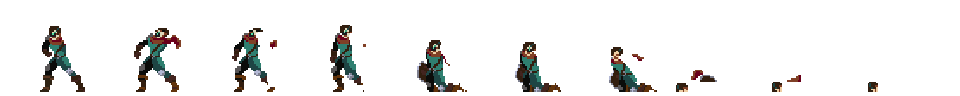
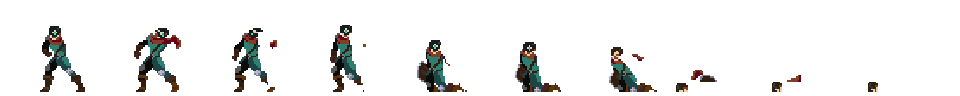
Polish hero equipment and shield feedback

diff --git a/game.py b/game.py
@@ -1499,29 +1499,45 @@ class Game:
         metadata = self.sprites.hero_equipment_pose(pose, elapsed)
         if metadata:
             right_hand = metadata["weapon_grip"]
-            right_elbow = metadata["weapon_elbow"]
             shield_point = metadata["shield_center"]
             angle = metadata["weapon_angle"]
         else:
-            right_hand, right_elbow, shield_point = (70, 51), (57, 45), (34, 53)
+            right_hand, shield_point = (70, 51), (34, 53)
             angle = -38
 
         right_grip = (hero_rect.x + right_hand[0] * unit, hero_rect.y + right_hand[1] * unit)
-        right_elbow = (hero_rect.x + right_elbow[0] * unit, hero_rect.y + right_elbow[1] * unit)
-        shield_center = (hero_rect.x + shield_point[0] * unit, hero_rect.y + shield_point[1] * unit)
+        shoulder = pygame.Vector2(hero_rect.x + 58 * unit, hero_rect.y + 48 * unit)
+        grip_vector = pygame.Vector2(right_grip) - shoulder
+        if grip_vector.length_squared() > 1:
+            bend = pygame.Vector2(-grip_vector.y, grip_vector.x).normalize() * 2.4 * unit
+        else:
+            bend = pygame.Vector2()
+        right_elbow = shoulder.lerp(pygame.Vector2(right_grip), .52) + bend
+
+        # The source shield layer crosses the body in several sword poses.
+        # Keep the carried shield on the off-hand side and slightly below the
+        # mask, while still retaining its frame-by-frame vertical movement.
+        shield_x, shield_y = shield_point
+        shield_x = min(shield_x, 49 if pose == "guard" else 47)
+        shield_y = max(shield_y, 52) + (4.0 if pose == "guard" else 4.5)
+        impact = min(1.0, self.hero_block_flash / .34) if self.hero_block_flash > 0 else 0.0
+        shield_center = (
+            hero_rect.x + (shield_x - 2.8 * impact) * unit,
+            hero_rect.y + (shield_y + 1.2 * impact) * unit,
+        )
 
         # The licensed source keeps equipment on separate layers. Rebuild the
         # forward forearm here so it follows the original sword arc while the
         # exact inventory icon remains visible instead of a baked-in weapon.
         if weapon:
-            pygame.draw.line(
-                self.screen_surface, (29, 27, 29), right_elbow, right_grip,
-                max(3, round(4.2 * unit)),
+            arm_segments = (
+                (shoulder, right_elbow, (32, 76, 71)),
+                (right_elbow, pygame.Vector2(right_grip), (91, 62, 43)),
             )
-            pygame.draw.line(
-                self.screen_surface, (105, 70, 43), right_elbow, right_grip,
-                max(2, round(2.5 * unit)),
-            )
+            for start, end, inner_color in arm_segments:
+                pygame.draw.line(self.screen_surface, (24, 25, 27), start, end, max(3, round(4.0 * unit)))
+                pygame.draw.line(self.screen_surface, inner_color, start, end, max(2, round(2.15 * unit)))
+            pygame.draw.circle(self.screen_surface, (43, 34, 31), (round(right_elbow.x), round(right_elbow.y)), max(2, round(2.2 * unit)))
 
         def blit_at_grip(image, grip, rotation):
             pivot = pygame.Vector2(image.get_width() * .10, image.get_height() * .89)
@@ -1531,12 +1547,35 @@ class Game:
             self.screen_surface.blit(rotated, rotated.get_rect(center=(round(rotated_center.x), round(rotated_center.y))))
 
         if shield:
-            side = max(24, round((19 if pose == "guard" else 17) * unit))
+            side = max(24, round((17 if pose == "guard" else 15) * unit))
             image = self.ui.item_sprite(shield, side, crop=True)
             if image:
-                shield_angle = -8 if pose == "guard" else math.sin(elapsed * 5.2) * 2
+                shield_color = self.ui.item_color(shield)
+                shield_angle = (-10 - 3 * impact) if pose == "guard" else math.sin(elapsed * 5.2) * 1.6
                 rotated = pygame.transform.rotate(image, shield_angle)
-                self.screen_surface.blit(rotated, rotated.get_rect(center=(round(shield_center[0]), round(shield_center[1]))))
+                shield_rect = rotated.get_rect(center=(round(shield_center[0]), round(shield_center[1])))
+
+                # A hard one-pixel-style silhouette gives every shield shape
+                # thickness, with a restrained ward pulse on an actual block.
+                mask = pygame.mask.from_surface(rotated)
+                outline = mask.to_surface(setcolor=(9, 12, 16, 220), unsetcolor=(0, 0, 0, 0))
+                edge = max(1, round(unit * .7))
+                for offset in ((-edge, 0), (edge, 0), (0, -edge), (0, edge), (edge, edge)):
+                    self.screen_surface.blit(outline, shield_rect.move(*offset))
+                if pose == "guard" or impact:
+                    ward = pygame.Surface((side * 2, side * 2), pygame.SRCALPHA)
+                    ward_center = ward.get_rect().center
+                    pulse = .5 + .5 * math.sin(self.time * 20)
+                    radius = round(side * (.57 + .05 * pulse + .09 * impact))
+                    alpha = round(52 + 72 * impact)
+                    pygame.draw.circle(ward, (*self.ui.blend(shield_color, (128, 211, 238), .48), alpha), ward_center, radius, max(2, round(unit)))
+                    for rune_index in range(3):
+                        rune_angle = -1.05 + rune_index * 1.05
+                        start = pygame.Vector2(ward_center) + pygame.Vector2(math.cos(rune_angle), math.sin(rune_angle)) * (radius - 4 * unit)
+                        end = pygame.Vector2(ward_center) + pygame.Vector2(math.cos(rune_angle), math.sin(rune_angle)) * (radius + 1 * unit)
+                        pygame.draw.line(ward, (*shield_color, min(220, alpha + 70)), start, end, max(1, round(unit * .8)))
+                    self.screen_surface.blit(ward, ward.get_rect(center=(round(shield_center[0]), round(shield_center[1]))))
+                self.screen_surface.blit(rotated, shield_rect)
                 # The fist and leather brace sit over the shield, making it
                 # visually held instead of floating beside the character.
                 left_grip = (shield_center[0] + 1.5 * unit, shield_center[1] - .5 * unit)
@@ -1551,11 +1590,26 @@ class Game:
                                  (left_grip[0] - unit, left_grip[1] - unit),
                                  (left_grip[0] + unit, left_grip[1]),
                                  max(1, round(unit * .55)))
+                if impact:
+                    spark_color = self.ui.blend(shield_color, (197, 235, 255), .72)
+                    rim = pygame.Vector2(shield_center) + pygame.Vector2(side * .48, -side * .08)
+                    for spark_index, direction in enumerate(((-.2, -1), (.8, -.7), (1, .15), (.45, .85))):
+                        length = (3.5 + spark_index % 2 * 2) * unit * impact
+                        end = rim + pygame.Vector2(direction).normalize() * length
+                        pygame.draw.line(self.screen_surface, spark_color, rim, end, max(1, round(unit)))
         if weapon:
             side = max(31, round(30 * unit))
             image = self.ui.item_sprite(weapon, side, crop=True)
             if not image:
                 return
+            if pose in {"attack", "critical"}:
+                trail_color = ELEMENT_COLORS[weapon.element] if weapon.element != Element.NEUTRAL else (232, 190, 91)
+                offsets = (-16, -31) if pose == "critical" else (-19,)
+                for trail_index, angle_offset in enumerate(reversed(offsets)):
+                    ghost = image.copy()
+                    ghost.fill((*trail_color, 0), special_flags=pygame.BLEND_RGBA_ADD)
+                    ghost.set_alpha(34 + trail_index * 18)
+                    blit_at_grip(ghost, right_grip, angle + angle_offset)
             blit_at_grip(image, right_grip, angle)
             hand_radius = max(2, round(1.65 * unit))
             pygame.draw.circle(self.screen_surface, (34, 27, 27), (round(right_grip[0]), round(right_grip[1])), hand_radius + 1)

diff --git a/tools/build_pixel_assets.py b/tools/build_pixel_assets.py
@@ -1034,24 +1034,64 @@ def _recolor_mystic_wayfarer(frame):
                 brightness = r + g + b
                 replacement = (143, 132, 111) if brightness < 430 else (222, 215, 185)
                 bone_colors.append((x, y))
+            elif y < 27 and r > 48 and r > g * 1.08 and g > b * 1.03:
+                # Replace Sven's exposed brown hair with the charcoal hood of
+                # the Wayfarer. Copper highlights remain on the scarf/armour.
+                brightness = r + g + b
+                replacement = (25, 29, 31) if brightness < 205 else (39, 51, 49)
             if replacement:
                 frame.set_at((x, y), (*replacement, color.a))
 
-    # A carved brow, independent eye socket and green grave-light make the
-    # face unmistakably non-human even at the native source resolution.
+    # Work only on the largest connected bone patch so raised hands cannot
+    # distort the face bounds in attack and victory poses.
     if bone_colors:
-        left = min(x for x, _ in bone_colors)
-        right = max(x for x, _ in bone_colors)
-        top = min(y for _, y in bone_colors)
-        bottom = max(y for _, y in bone_colors)
+        remaining = set(bone_colors)
+        components = []
+        while remaining:
+            stack = [remaining.pop()]
+            component = []
+            while stack:
+                point = stack.pop()
+                component.append(point)
+                px, py = point
+                for neighbor in ((px - 1, py), (px + 1, py), (px, py - 1), (px, py + 1)):
+                    if neighbor in remaining:
+                        remaining.remove(neighbor)
+                        stack.append(neighbor)
+            components.append(component)
+        face = max(components, key=lambda points: (len(points), -min(y for _, y in points)))
+        face_set = set(face)
+        left = min(x for x, _ in face)
+        right = max(x for x, _ in face)
+        top = min(y for _, y in face)
+        bottom = max(y for _, y in face)
+
+        # A one-pixel charcoal border gives the pale mask a readable silhouette
+        # without increasing the source resolution or smearing its hard pixels.
+        border = set()
+        for px, py in face:
+            for neighbor in ((px - 1, py), (px + 1, py), (px, py - 1), (px, py + 1)):
+                nx, ny = neighbor
+                if (neighbor not in face_set and 0 <= nx < frame.get_width() and 0 <= ny < frame.get_height()
+                        and frame.get_at(neighbor).a >= 16):
+                    border.add(neighbor)
+        for point in border:
+            frame.set_at(point, (24, 27, 29, frame.get_at(point).a))
+
+        # A carved brow, independent eye socket, jaw slit and green grave-light
+        # make the face unmistakably non-human at native resolution.
         eye_x = right - max(1, (right - left) // 4)
         eye_y = top + max(2, (bottom - top) // 2)
+        left_eye_x = left + max(1, (right - left) // 4)
+        pygame.draw.rect(frame, (28, 27, 29), (left_eye_x - 1, eye_y, 2, 2))
         pygame.draw.rect(frame, (28, 27, 29), (eye_x - 1, eye_y, 3, 2))
         pygame.draw.rect(frame, (82, 224, 164), (eye_x, eye_y, 1, 1))
         rune_x = (left + right) // 2
         pygame.draw.line(frame, (63, 167, 126), (rune_x, top + 1), (rune_x, max(top + 1, eye_y - 1)), 1)
         if bottom - top > 5:
-            pygame.draw.line(frame, (91, 64, 51), (left + 1, eye_y + 2), (rune_x, bottom), 1)
+            jaw_y = max(eye_y + 2, bottom - 1)
+            pygame.draw.line(frame, (68, 61, 54), (left + 1, jaw_y), (right - 1, jaw_y), 1)
+            pygame.draw.line(frame, (63, 167, 126), (rune_x, eye_y + 2), (rune_x, bottom), 1)
     return frame
 
 

diff --git a/tools/qa_release.py b/tools/qa_release.py
@@ -677,6 +677,9 @@ def render_rat_and_shield(game, output_dir):
     game.battle.rng = random.Random(77)
     game.battle._enemy_strike()
     game.process_battle_events()
+    # Force the short shield ward window for a deterministic visual review;
+    # combat probability itself is covered separately by simulation checks.
+    game.hero_block_flash = .34
     game.draw_battle()
     pygame.image.save(game.screen_surface, output_dir / "shield_defense_impact_v8.png")
 
